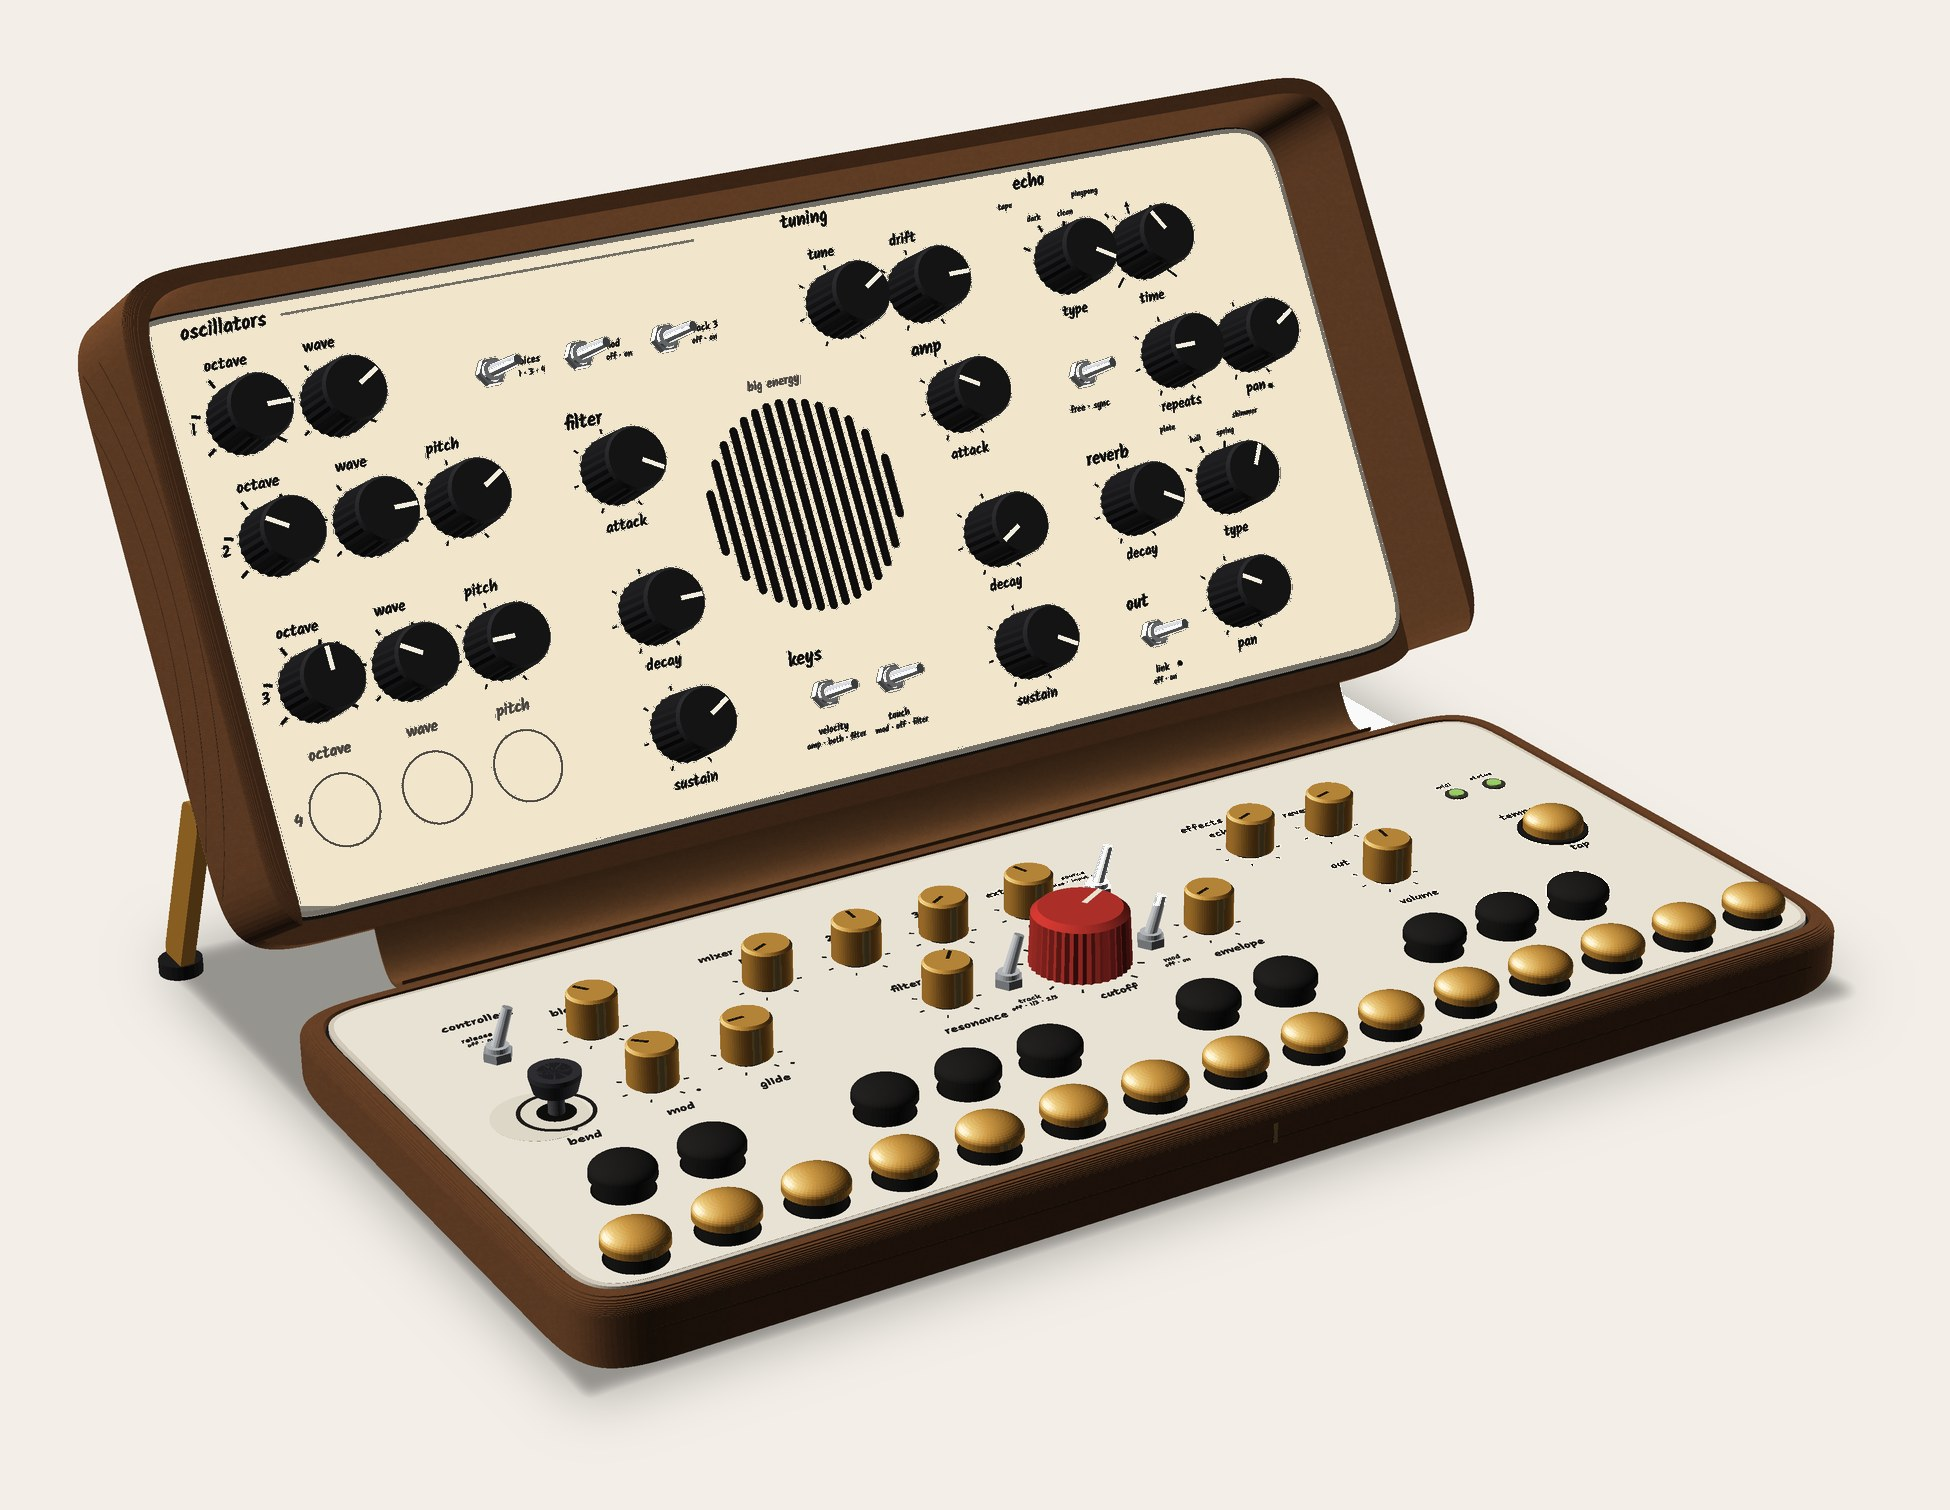
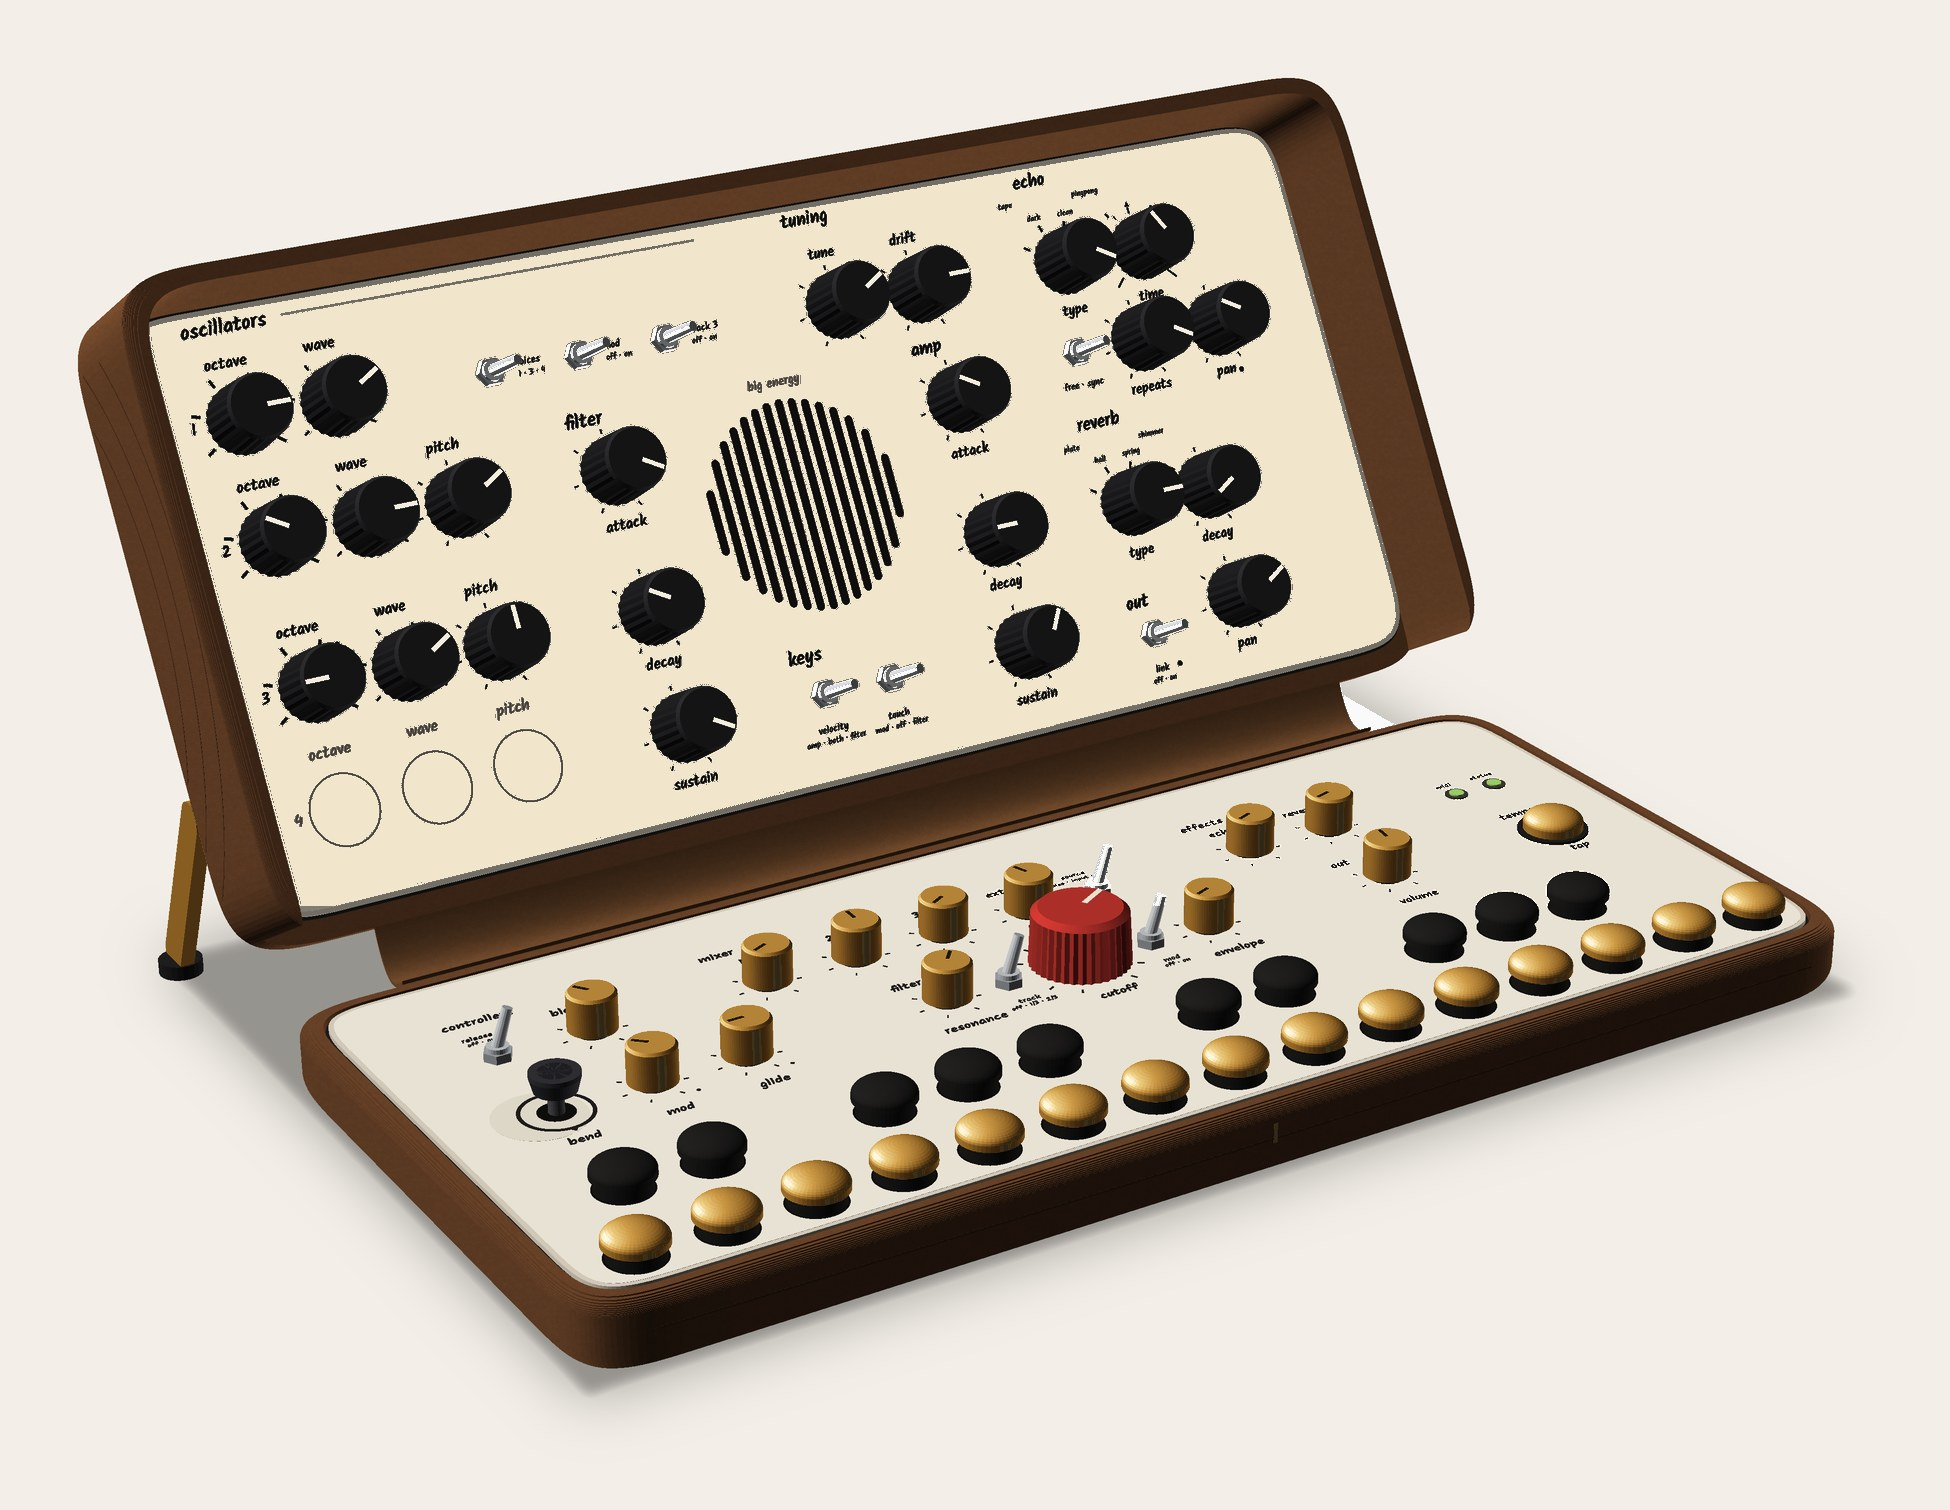
CATHEDRAL steer 5 fixes 5, visual: lay out a9e2603 (P5O); drop folded fits, echo time legend +0.5; P5O top and standing re-rendered; look doc rev 9.4; real-Kalam 0

Changed region(s): [[0.5231, 0.1868, 0.6769, 0.3735]]

diff --git a/design/concepts/_mock-src/rb.py b/design/concepts/_mock-src/rb.py
@@ -1645,7 +1645,8 @@ def nv_fit_sections(lc, sections):
     """pass-through: visual's fit is in layout_check.py (6f7c036)."""
     return list(sections)
 
-P5O_HEAD_FIT = {"reverb": (0.0, 1.55), "out": (0.0, 0.3)}   # 7595f7d real Kalam: "reverb" sat on decay's top tick (0.00), "out" 1.42 from link's nut (rev 9.1 fits are in the checker, 9bbedb1)
+LEGEND_FIT = {("P5O", "ECHO TIME"): 0.5}   # a9e2603 real Kalam: "time" sat 1.09 from repeats (now at x 232.95, d 84) below it
+P5O_HEAD_FIT = {}   # 528deea's fits are in the checker (a9e2603); "reverb" moved over the fan, so its +1.55 is gone
 def nv_heads_left(lc, sections):
     """steer 5 score fixes 2. P5O: systems' SECTIONS_LEFT (every heading top-left of its group), with the visual's
     real-Kalam fits (P5O_HEAD_FIT, for systems to fold): "filter" / "amp" +0.8 ("amp"'s descender sat 0.24 from the
@@ -1837,7 +1838,7 @@ class Nave(Cathedral):
     # steer 5 fixes 3 (name positions, lid d, override NAME_BOX): P5R under the window at d 38.0 (echo pan moved to
     # x 147.7, so at 34.0 the name sat on its top tick); P5O ABOVE the window at d 90.5, a nameplate over the grille
     # (under it, the name came 1.5 from "keys", and the new 5 mm legend-to-heading rule can't be met there)
-    NAME_AT = {"P5R": 38.0, "P5O": 90.5}
+    NAME_AT = {}   # (both now in layout_check.py's NAME_BOX, a9e2603)
     NAME_FIT = {}
     NAME_D5 = {"P5O": 37.3, "P5R": 34.0}   # steer 5: the name's centre line (lid d), on the axis under the window
     def name_mark(self, gz):
@@ -1934,6 +1935,7 @@ class Nave(Cathedral):
                 sz = lc.LS if k == "k" else lc.LS * 0.85
                 bx = lc.tbox(x, d, lab, sz, where, r)
                 cy = (bx[1] + bx[3]) / 2 + (lc.BEHIND_EXTRA if where == "behind" else 0.0)
+                cy += LEGEND_FIT.get((getattr(lc, "VARIANT", ""), n), 0.0)
                 s += txt(x, L0 + cy, z, lab, sz, ink, font=st.font)
         heads, subs, ha = nv_heads_left(lc, sections)
         for t, x, d in heads:                            # steer 5 score fixes 2: P5O's headings top-left of their groups

diff --git a/design/branches/concepts/cathedral/how-it-looks-and-feels.md b/design/branches/concepts/cathedral/how-it-looks-and-feels.md
@@ -1,4 +1,4 @@
-# CATHEDRAL: how it looks and feels (visual, rev 9.3: steer 5 fixes 4, both options side by side)
+# CATHEDRAL: how it looks and feels (visual, rev 9.4: steer 5 fixes 5, both options side by side)
 
 Seed: CHAMBER rev 2 + FOLD-105 v1.1. Owner record: `design/owner.md` (14:12 onwards). Read with `how-it-works.md`, where systems owns the geometry; **§19** is this revision's layout (commit a80d7c: equal-gutter base, P5O as columns with a VCO 4 slot, P5R with out at the end of its bottom row, pivots inboard, the gap rule). The director's steer-5 scores (P5R 8, P5O 6, base 7) are in `design/notes/director.md`; then P5R 9, P5O 8. Rev 9.1 lays out systems' fixes for the 10 (f8ba494): P5R's oscillator switches on one line under the VCOs; P5O's headings top-left, every VCO reading octave · wave · pitch, tune · drift as a headed "tuning" pair after VCO 1, and out in R4's right slot.
 
@@ -84,15 +84,15 @@ Seed: CHAMBER rev 2 + FOLD-105 v1.1. Owner record: `design/owner.md` (14:12 onwa
 - **Real Kalam:** 0 for P5O, P5O with VCO 4, and P5R. **Systems' rules on the visual's positions:** 0 for all three. `layout_check.py`: 0.
 - **The director's tests** (real Kalam on the rendered lid):
   - **P5R:** all pass: no heading on a fan-word line, no phrases, ≥ 5 mm from a legend to the next heading.
-  - **P5O:** the 5 mm gaps and one legend side per group now pass in the right block. **One fail is left: "reverb" shares its line with type's fan words "hall" and "spring"**, 16 mm to its right. With reverb reading decay · type, its heading sits top left over decay, at the height of the type knob's inner fan words. It can't rise above them (echo's legends are 5 mm above), so it reads as one line with the fan. A fix is systems': reverb back to type · decay with the heading above the fan, or the right block's R2–R3 spacing ≈ 5 mm wider. "track 3" is approved and drawn.
+  - **P5O (systems a9e2603):** all pass. Reverb is back to type · decay with its heading over the fan, and echo's second row is at d 84, with repeats and pan half a column right. Visual fit: echo's "time" legend +0.5 (real Kalam put it 1.09 from repeats below it). "track 3" is approved and drawn.
 - **Visual fits, for systems to fold:**
-  - P5O "reverb" +1.55 (it sat on decay's top tick, 0.00);
+  - P5O echo "time" legend +0.5 (1.09 from repeats, a9e2603);
   - P5O "out" +0.3 (1.42 from link's nut);
   - "above2" legends (P5R keys): block bottom TGL + 2.35 over the nut, positions then name, leading **1.25** (the checker's box uses 0.9; at 0.9, "velocity"'s descender met its positions);
   - the name stays at P5R d 38.0, and P5O d 90.5 above the window (NAME_BOX still has 34.0 / 37.6).
 
 ### Open
-1. **P5O:** "reverb" on the fan words' line (above).
+1. **P5O:** echo's second row now steps half a column right of its first. It reads as one group because of the shared heading, but it's the one place on the lid that leaves the column grid.
 2. **P5R:** "keys" heads its pair from the shared row-C heading line. With the legends above the switches it now sits 4 mm over "velocity", which is tighter and reads better.
 3. **P5O:** "out" hangs 3.8 mm into the gutter.
 4. **Owner:** P5O or P5R; the 4th analog oscillator (P5O only); "amp controls left to right"; D 132.

diff --git a/design/notes/visual.md b/design/notes/visual.md
@@ -1,5 +1,11 @@
 # Visual designer notes (instrument; working name retired)
 
+## CATHEDRAL steer 5 fixes 5 (2026-11-13 ~23:20): READ THIS FIRST
+- **Systems a9e2603 (P5O only):** reverb is back to type · decay, its heading over the fan (d 68.5); echo row 2 at d 84, repeats / pan at 232.95 / 253; my 528deea numbers are folded (out +0.3, NAME_BOX 90.5 / 38.0, above2 leading).
+- **rb.py:** P5O_HEAD_FIT and NAME_AT emptied. New `LEGEND_FIT` {("P5O", "ECHO TIME"): +0.5}, because real Kalam put "time" 1.09 from repeats; it's for systems to fold.
+- **Checks:** real Kalam, rules and the director's tests are 0 for P5O, P5O+VCO4 and P5R. P5R's geometry is unchanged by a9e2603. Its re-render differs only in random knob-pointer angles, so it isn't committed.
+- **Images:** P5O top and P5O standing. Doc rev 9.4.
+
 ## CATHEDRAL steer 5 fixes 4 (2026-11-13 ~23:05): READ THIS FIRST
 - **Inputs:** systems 7595f7d. P5R: keys legends "above2", row-C headings at d 43.5. P5O: the right block re-spaced (legends under), reverb reads decay · type, out reads link (switch, d 20) · pan; "track 3" is approved.
 - **rb.py:**
